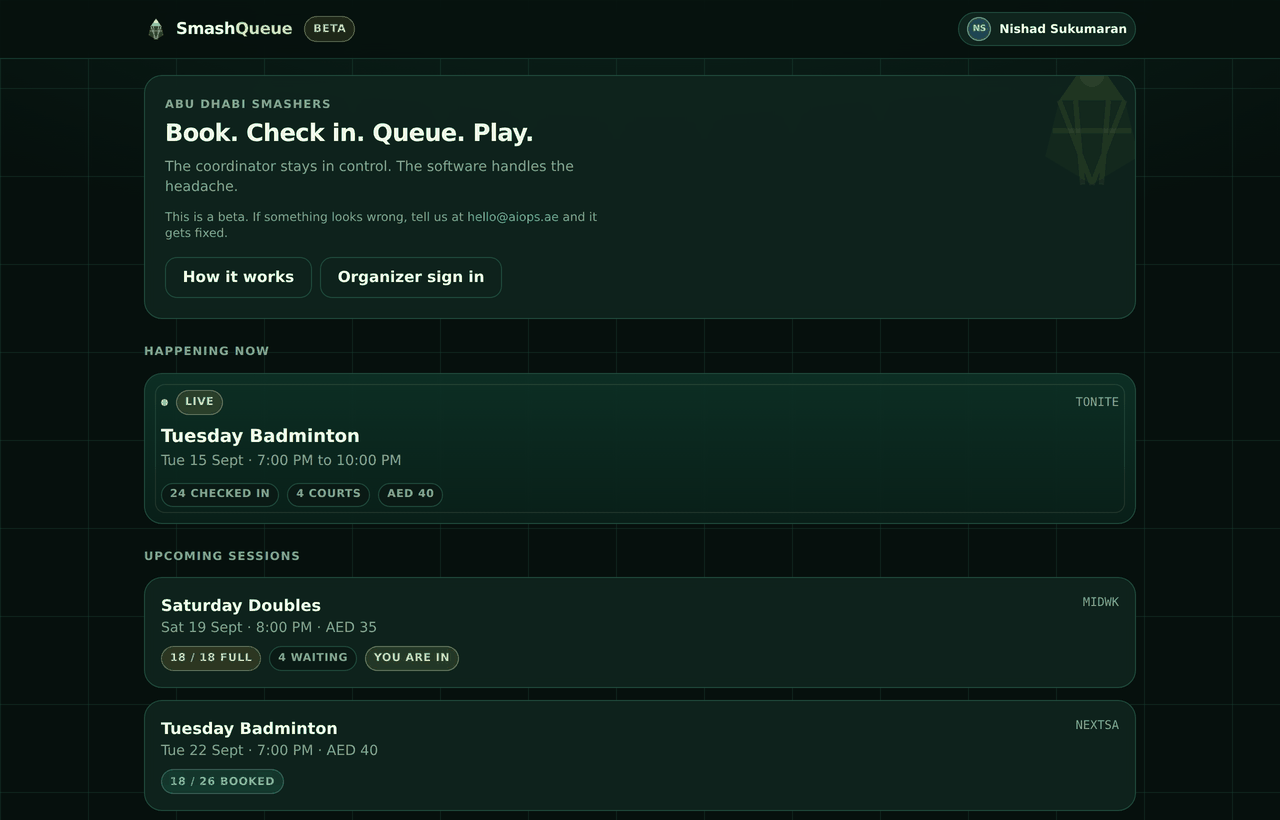
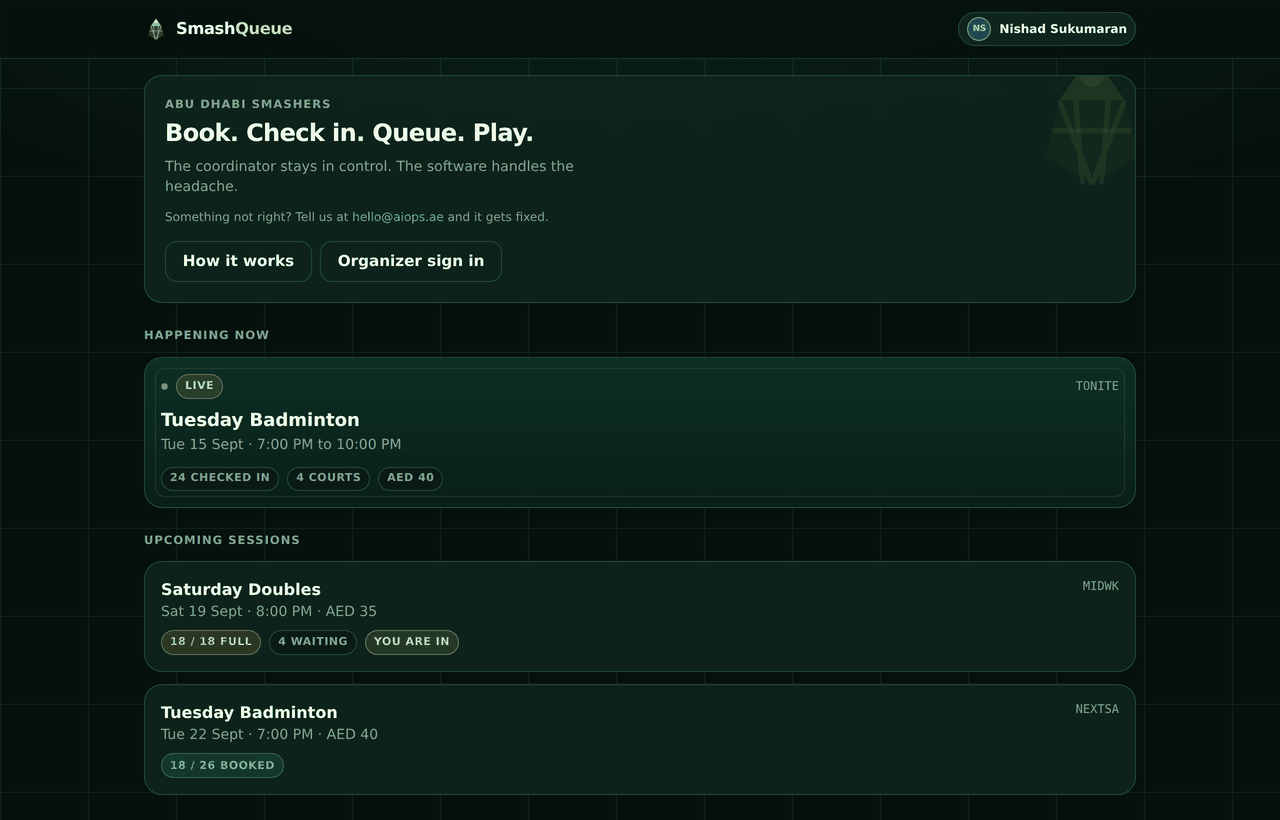
Release 1.0.0
Drops the beta label rather than just renaming it. RELEASE_CHANNEL is now
nullable and the header chip, the page title, the footer and the guide
header all read it, so a future prerelease sets one string and the label
comes back everywhere at once instead of being edited in four files.

The screenshots are recaptured because every one of them carried the BETA
chip in the header, and shipping 1.0.0 with beta screenshots in the README
is the kind of detail people notice before they notice anything else.

The README's beta section becomes "What v1.0.0 means, and what it doesn't",
which keeps the honest part: feature-complete against PRD 31 and tested,
but not yet run through thirty people on a Saturday with bad venue wifi.
The known-limits table stays, unchanged. It was never a beta disclaimer.

Claude-Session: https://claude.ai/code/session_015Ug1Y9LMyjPP6xH98pxx1T

diff --git a/src/app/layout.tsx b/src/app/layout.tsx
@@ -11,7 +11,7 @@ import { users } from "@/db/schema";
 import { eq } from "drizzle-orm";
 
 export const metadata: Metadata = {
-  title: `${APP_NAME} ${RELEASE_CHANNEL}`,
+  title: RELEASE_CHANNEL ? `${APP_NAME} ${RELEASE_CHANNEL}` : APP_NAME,
   description:
     "Book. Check in. Queue. Play. Badminton session management that runs itself. Built by AIOps.",
   manifest: "/manifest.webmanifest",
@@ -48,9 +48,11 @@ export default async function RootLayout({ children }: { children: React.ReactNo
                 Smash<span className="text-shuttle">Queue</span>
               </span>
             </Link>
-            <span className="chip chip-amber shrink-0" title="Beta release. Things may still change.">
-              {RELEASE_CHANNEL}
-            </span>
+            {RELEASE_CHANNEL && (
+              <span className="chip chip-amber shrink-0" title={`${RELEASE_CHANNEL} release. Things may still change.`}>
+                {RELEASE_CHANNEL}
+              </span>
+            )}
             <div className="ml-auto flex min-w-0 items-center gap-2">
               {staff.length > 0 && <span className="chip chip-teal hidden sm:inline-flex">Staff</span>}
               {user ? (

diff --git a/src/app/guide/page.tsx b/src/app/guide/page.tsx
@@ -30,8 +30,8 @@ export default function GuidePage() {
           organises the group. Skim the part that is yours.
         </p>
         <div className="mt-3 flex flex-wrap gap-2">
-          <span className="chip chip-amber">
-            {RELEASE_CHANNEL} &middot; {APP_VERSION}
+          <span className={RELEASE_CHANNEL ? "chip chip-amber" : "chip"}>
+            {RELEASE_CHANNEL ? `${RELEASE_CHANNEL} · ${APP_VERSION}` : `v${APP_VERSION}`}
           </span>
           <a href={supportMailto("Question about the guide")} className="chip chip-teal">
             {SUPPORT_EMAIL}

diff --git a/src/app/page.tsx b/src/app/page.tsx
@@ -48,8 +48,8 @@ export default async function Home() {
           The coordinator stays in control. The software handles the headache.
         </p>
         <p className="mt-3 max-w-md text-xs text-muted">
-          This is a beta. If something looks wrong, tell us at{" "}
-          <a href={supportMailto("Beta feedback")} className="text-teal hover:underline">
+          Something not right? Tell us at{" "}
+          <a href={supportMailto("Feedback")} className="text-teal hover:underline">
             {SUPPORT_EMAIL}
           </a>{" "}
           and it gets fixed.

diff --git a/src/components/SiteFooter.tsx b/src/components/SiteFooter.tsx
@@ -25,7 +25,7 @@ export function SiteFooter() {
 
         <div className="flex min-w-0 flex-wrap items-center gap-x-3 gap-y-1.5 text-[.7rem] text-muted sm:ml-auto">
           <span className="chip">
-            {RELEASE_CHANNEL} &middot; {APP_VERSION}
+            {RELEASE_CHANNEL ? `${RELEASE_CHANNEL} · ${APP_VERSION}` : `v${APP_VERSION}`}
           </span>
           <Link href="/guide" className="hover:text-teal">
             Guide

diff --git a/src/lib/brand.ts b/src/lib/brand.ts
@@ -1,8 +1,9 @@
 /** Single source of truth for product identity, release channel and support. */
 
 export const APP_NAME = "Smash Queue";
-export const APP_VERSION = "1.0.0-beta.1";
-export const RELEASE_CHANNEL = "Beta";
+export const APP_VERSION = "1.0.0";
+/** null on a stable release; a label like "Beta" or "RC" on a prerelease. */
+export const RELEASE_CHANNEL: string | null = null;
 
 export const SUPPORT_EMAIL = "hello@aiops.ae";
 

diff --git a/README.md b/README.md
@@ -4,7 +4,7 @@
 
 <br>
 
-[![Version](https://img.shields.io/badge/version-1.0.0--beta.1-D7F75B?style=for-the-badge&labelColor=0A1A15)](https://github.com/nishadsukumaran/smash-queue/releases)
+[![Version](https://img.shields.io/badge/version-1.0.0-D7F75B?style=for-the-badge&labelColor=0A1A15)](https://github.com/nishadsukumaran/smash-queue/releases)
 [![Live](https://img.shields.io/badge/live-smashq.aiopsgroup.ai-3DD9A4?style=for-the-badge&labelColor=0A1A15)](https://smashq.aiopsgroup.ai)
 [![Tests](https://img.shields.io/badge/tests-38%20passing-3DD9A4?style=for-the-badge&labelColor=0A1A15)](#prove-it-yourself)
 [![Fairness](https://img.shields.io/badge/games%20spread-%E2%89%A4%201-D7F75B?style=for-the-badge&labelColor=0A1A15)](#the-queue-engine)
@@ -356,15 +356,20 @@ The non-technical guide for players and coordinators: **[`docs/USER-GUIDE.md`](d
 
 ---
 
-## Beta — stated plainly
+## What v1.0.0 means, and what it doesn't
 
-This is `1.0.0-beta.1`. Everything in MVP scope works and is tested, but it has not yet run a
-real Saturday night with thirty people and patchy venue wifi, which is the only test that
-really counts. Expect the queue weights to want tuning after the first few sessions.
+Feature-complete against PRD §31, tested, and running in production. What it has not done yet
+is thirty people on a Saturday night with patchy venue wifi — so expect the queue weights to
+want tuning after the first few real sessions. That is tuning, not repair: the engine's
+behaviour is pinned by 38 tests and five simulated session shapes, and a weight change that
+widens the games-played spread shows up in the simulator before it reaches a court.
+
+The limits below are real and stated on purpose. None of them block running a night; all of
+them are worth knowing before you deploy this for someone else.
 
 | Known limit | Impact | Plan |
 | :--- | :--- | :--- |
-| Staff PIN is the only access control | Fine for one trusted group, not for anything public | Proper logins are first after beta |
+| Staff PIN is the only access control | Fine for one trusted group, not for anything public | Proper logins are the next thing on the list |
 | Live screens poll every 5–6 s | Noticeable if you stare at the board, not while running a session | Push in Phase 2 |
 | Player score confirmation off by default | In the data model, switched off | Enable per group |
 | No interactive transactions over Neon HTTP | Costs nothing today — every write is a single statement | Check before adding a multi-statement atomic write |

diff --git a/docs/USER-GUIDE.md b/docs/USER-GUIDE.md
@@ -2,7 +2,7 @@
 
 **Book. Check in. Queue. Play.**
 
-**Live at [smashq.aiopsgroup.ai](https://smashq.aiopsgroup.ai)** &middot; `Beta 1.0.0-beta.1`
+**Live at [smashq.aiopsgroup.ai](https://smashq.aiopsgroup.ai)** &middot; `v1.0.0`
 &middot; built by [AIOps](https://aiops.ae) &middot; something wrong? **hello@aiops.ae**
 
 One badminton group, one link. Players book from WhatsApp, scan a QR at the door, and
@@ -381,16 +381,16 @@ the board. It lasts for tonight only.
 
 ---
 
-## This is a beta
+## Telling us something is wrong
 
-Everything described here works and is tested, but the app has not yet survived a real
-Saturday with thirty people and bad venue wifi. If something behaves oddly, it is worth
-reporting rather than working around — mail **hello@aiops.ae** with what you were doing and
+Everything described here works and is tested. What has not happened yet is thirty people,
+one Saturday, and bad venue wifi all at once — so if something behaves oddly, it is worth
+reporting rather than working around. Mail **hello@aiops.ae** with what you were doing and
 roughly when, and it gets looked at.
 
-The queue weights in particular are expected to want tuning once a few real sessions have
-been played. If the rotation feels wrong to the people actually on court, that is exactly the
-feedback worth sending.
+The queue weights especially are expected to want tuning once a few real sessions have been
+played. If the rotation feels wrong to the people actually standing on court, that is the
+single most useful thing you can send.
 
 <sub>Built and maintained by [AIOps](https://aiops.ae) — vendor-independent forward deployed
 engineering for the GCC.</sub>
